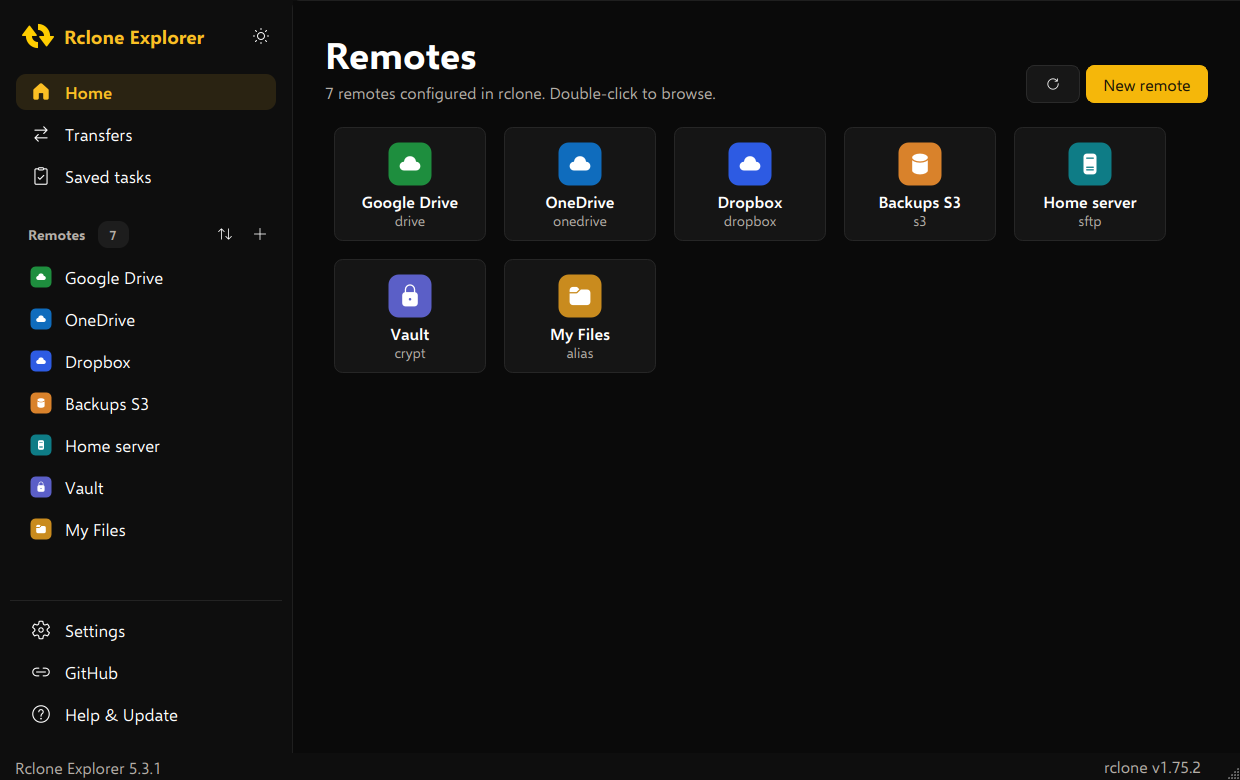
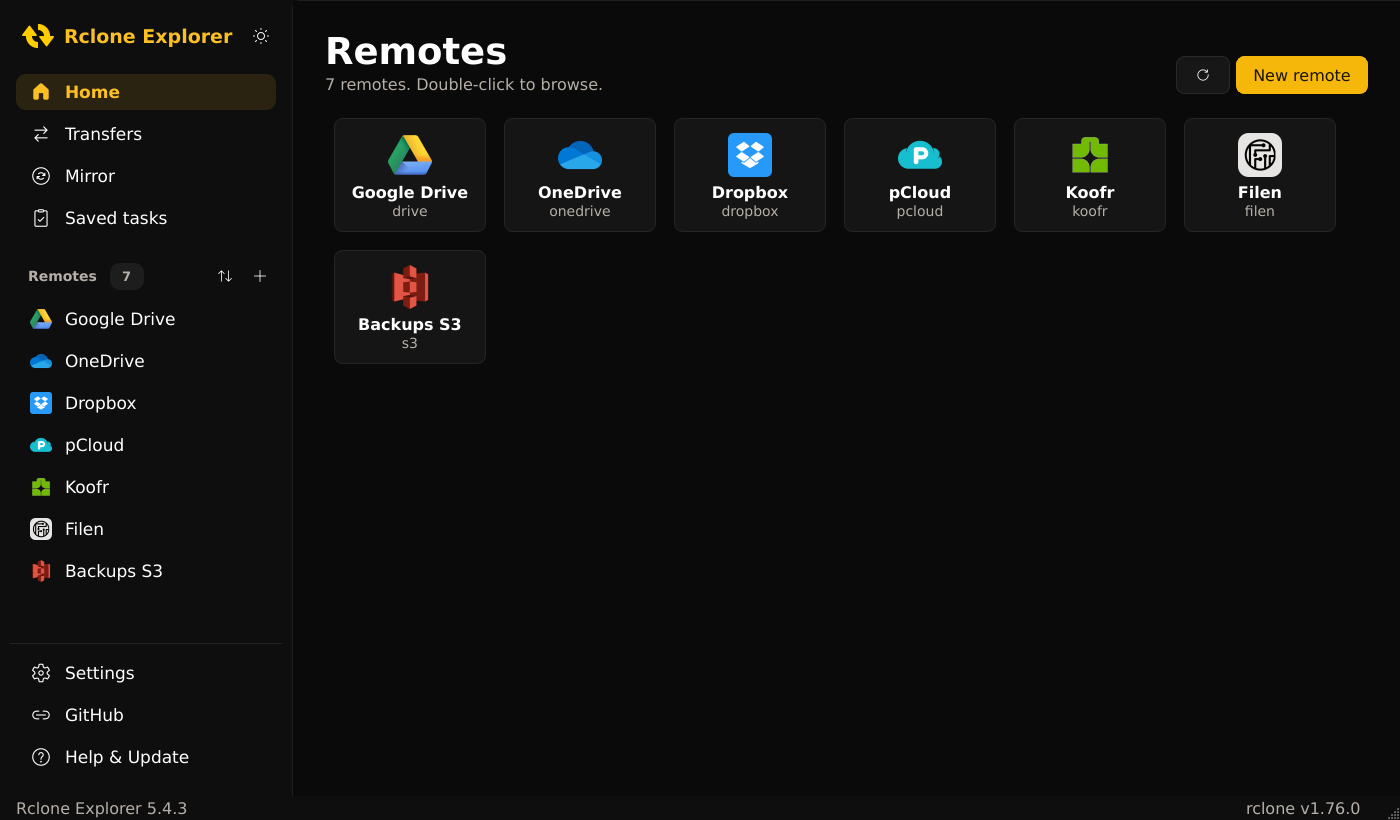
5.4.4: screenshots from a demo set-up, FAQ and SEO, delete selection and button fixes
Claude-Session: https://claude.ai/code/session_01HCoMPdrHLsSJNeapAVya7F

diff --git a/site/index.html b/site/index.html
@@ -349,14 +349,14 @@ footer .wrap { display: flex; gap: 18px; flex-wrap: wrap; justify-content: space
       <div class="section-title"><span class="pill">Screenshots</span><h2>Made for your desktop</h2>
         <p>An rclone GUI that looks at home on Windows and Linux, in dark or light.</p></div>
       <div class="gallery">
-        <figure><img src="img/home.png" alt="Home page with remote cards" loading="lazy"><figcaption>All your remotes at a glance</figcaption></figure>
-        <figure><img src="img/transfers-dark.png" alt="A running transfer with progress" loading="lazy"><figcaption>Transfers with live progress, pause and resume</figcaption></figure>
-        <figure><img src="img/details-light.png" alt="Details view in light mode" loading="lazy"><figcaption>Details view in light mode</figcaption></figure>
-        <figure><img src="img/browser.png" alt="Icons view with tabs" loading="lazy"><figcaption>Icons view with tabs</figcaption></figure>
-        <figure><img src="img/mirror-pick.png" alt="New mirror: picking a sub-folder of Google Drive, with its size and file count" loading="lazy"><figcaption>New mirror: pick any folder or sub-folder</figcaption></figure>
-        <figure><img src="img/mirror-destinations.png" alt="New mirror: choosing the folder on pCloud and Koofr" loading="lazy"><figcaption>Choose the folder on each cloud</figcaption></figure>
-        <figure><img src="img/mirror-pc.png" alt="Mirrors with a folder on this PC: photos backed up to pCloud and Google Drive, and an offline copy of a Google Drive folder" loading="lazy"><figcaption>Back up a folder on this PC, or keep an offline copy</figcaption></figure>
-        <figure><img src="img/mirror-pc-destination.png" alt="New mirror: This PC switched on next to Dropbox" loading="lazy"><figcaption>This PC as a copy, next to your clouds</figcaption></figure>
+        <figure><img src="img/home.png" alt="Rclone Explorer home page: cards for Google Drive, OneDrive, Dropbox, pCloud, Koofr, Filen and S3 remotes" width="1400" height="820" loading="lazy"><figcaption>All your remotes at a glance</figcaption></figure>
+        <figure><img src="img/transfers-dark.png" alt="A running rclone transfer with progress, speed and time left" width="1400" height="820" loading="lazy"><figcaption>Transfers with live progress, pause and resume</figcaption></figure>
+        <figure><img src="img/details-light.png" alt="Details view of a Google Drive folder in light mode, with size, date and type" width="1400" height="820" loading="lazy"><figcaption>Details view in light mode</figcaption></figure>
+        <figure><img src="img/browser.png" alt="Icons view of a Google Drive remote with tabs" width="1400" height="820" loading="lazy"><figcaption>Icons view with tabs</figcaption></figure>
+        <figure><img src="img/mirror-pick.png" alt="New mirror: picking a sub-folder of Google Drive, with its size and file count" width="720" height="680" loading="lazy"><figcaption>New mirror: pick any folder or sub-folder</figcaption></figure>
+        <figure><img src="img/mirror-destinations.png" alt="New mirror: choosing the folder on pCloud and Koofr" width="720" height="680" loading="lazy"><figcaption>Choose the folder on each cloud</figcaption></figure>
+        <figure><img src="img/mirror-pc.png" alt="Mirrors with a folder on this PC: photos backed up to pCloud and Google Drive, and an offline copy of a Google Drive folder" width="1240" height="780" loading="lazy"><figcaption>Back up a folder on this PC, or keep an offline copy</figcaption></figure>
+        <figure><img src="img/mirror-pc-destination.png" alt="New mirror: This PC switched on next to Dropbox" width="720" height="680" loading="lazy"><figcaption>This PC as a copy, next to your clouds</figcaption></figure>
       </div>
     </div>
   </section>

diff --git a/src/remote_widget.cpp b/src/remote_widget.cpp
@@ -69,7 +69,11 @@ QString root = isLocal ? "/" : QString();
 
   QObject::connect(
       ui.tree->selectionModel(), &QItemSelectionModel::selectionChanged, this,
-      [=, this](const QItemSelection &selection) {
+      [=, this]() {
+        // What is selected now, not just what this change added: removing a
+        // row (a delete, a reload) reports an empty change while other items
+        // are still selected, which left every button greyed out.
+        const QItemSelection selection = ui.tree->selectionModel()->selection();
         // only this widget's own actions, not those inside child widgets
         // (e.g. the filter box's clear button)
         for (auto child :
@@ -319,10 +323,27 @@ QString root = isLocal ? "/" : QString();
       ProgressDialog progress("Delete", "Deleting...", pathMsg, &process, this);
       if (progress.exec() == QDialog::Accepted) {
         QModelIndex above = index.parent();
-        // the row below (a sibling: the parent of a top-level row has no model)
+        // Select the next item (else the file before, else the folder), and
+        // make it the current one too: otherwise the view picks a neighbour
+        // itself once the row is gone, and if that is a folder the icon view
+        // opened it. (A folder before it would also become the address.)
         QModelIndex next = index.sibling(index.row() + 1, 0);
-        ui.tree->selectionModel()->select(next.isValid() ? next : above,
-                                          QItemSelectionModel::SelectCurrent);
+        if (!next.isValid() && index.row() > 0) {
+          next = index.sibling(index.row() - 1, 0);
+          if (model->isFolder(next)) {
+            next = QModelIndex();
+          }
+        }
+        const QModelIndex target = next.isValid() ? next : above;
+        // the icon view keeps its own current item: move it too (its
+        // selection is copied into the tree)
+        if (target.parent() == mGrid->rootIndex()) {
+          mGrid->selectionModel()->setCurrentIndex(target, QItemSelectionModel::ClearAndSelect);
+        } else {
+          mGrid->selectionModel()->clear();
+        }
+        ui.tree->selectionModel()->setCurrentIndex(
+            target, QItemSelectionModel::ClearAndSelect | QItemSelectionModel::Rows);
         model->removeRow(index.row(), above);
       }
     }
@@ -793,7 +814,9 @@ void RemoteWidget::buildFluentUi(ItemModel *model, const QString &remote,
   QObject::connect(model, &ItemModel::loadFailed, this,
                    [this](const QString &folder, const QString &error) {
                      mLoadErrorFolder = folder;
-                     mLoadError->setText(tr("Could not open %1: %2").arg(folder, error));
+                     // "Filen:" for the top folder reads oddly before a colon
+                     const QString shown = folder.endsWith(':') ? folder.chopped(1) : folder;
+                     mLoadError->setText(tr("Could not open %1: %2").arg(shown, error));
                      mLoadError->show();
                    });
   // only a new listing of that same folder clears it (another folder's

diff --git a/src/item_model.cpp b/src/item_model.cpp
@@ -520,6 +520,11 @@ void ItemModel::load(const QPersistentModelIndex &parentIndex, Item *parent) {
       for (auto it = lines.crbegin(); it != lines.crend() && error.isEmpty(); ++it) {
         error = it->trimmed().remove(stamp);
       }
+      // "Failed to lsjson with 2 errors: last error was: error in ListJSON:
+      // directory not found" says no more than "directory not found"
+      static const QRegularExpression wrapper(
+          R"(^(Failed to \w+( with \d+ errors?)?: )?(last error was: )?(error in \w+: )?)");
+      error.remove(wrapper);
       emit loadFailed(mRemote + ":" + parent->path.path(),
                       error.isEmpty() ? tr("rclone could not list it.") : error);
       return;

diff --git a/CHANGELOG.md b/CHANGELOG.md
@@ -11,6 +11,7 @@
 -   Big folders reload much faster: rows that disappeared were removed one at a time, freezing the window for tens of thousands of files
 -   Picking a remote folder and the remote suggestions in Compare, Copy to… and Bisync no longer wait for rclone with the window frozen
 -   `SECURITY.md` explains how to report a security problem privately
+-   README and website: new screenshots, a FAQ, and better search results (also for "Rclone Browser"). The screenshots are made from a demo set-up in `tools/screenshots/`, so they can be taken again for each release
 
 ### Fixed
 -   **Quitting with several jobs running stopped only every other one** properly; the rest were killed, which on Linux could leave a broken mount behind
@@ -19,6 +20,7 @@
 -   **Two copies of the AppImage could run at once**, so schedules and mirrors ran twice. On Linux the "one at a time" lock is now per user
 -   Crash: Rename, Mount, Download and the other file buttons crashed when the item they pointed at had just been deleted or reloaded
 -   Changed sizes and dates sometimes did not show after a refresh
+-   Deleting the last file of a folder in the Icons view opened the folder next to it, and after a delete the Rename, Move and Delete buttons could stay greyed out
 -   **Updates**: *Keep running* was ignored when a scheduled task started during the download; Cancel did not work while unpacking (also for rclone updates); the window froze while the portable version copied its files; the checksum is now taken from the saved file and a full disk is reported; *Update now* during an update check no longer hangs on "Preparing…"; one failure shows one message; files a new version no longer has are removed; the app cannot be closed halfway through swapping files
 -   Cancelling a transfer or stream, and the end of a transfer (the sleep lock), no longer make the window wait
 -   The Flatpak could keep the computer awake after transfers stopped and started again quickly

diff --git a/README.md b/README.md
@@ -150,6 +150,23 @@ Windows releases are not code-signed yet, so Windows may warn about `Rclone Expl
 - Committers, reviewers and release approvers: [Jackpison](https://github.com/Jackpison)
 - The download also contains files from other projects (the Qt libraries and rclone), as published by those projects.
 
+## FAQ
+
+**Is Rclone Explorer the same as Rclone Browser?**
+Yes. Rclone Explorer is the continuation of [Rclone Browser](https://github.com/mmozeiko/RcloneBrowser) (by mmozeiko, DinCahill and kapitainsky) under a new name, with a new design and new features such as mirrors, schedules and tabs. If you searched for an *Rclone Browser download* or an *Rclone Browser alternative*, this is it: settings and saved tasks of Rclone Browser carry over.
+
+**Is it free?**
+Yes, free and open source under the MIT license, with no account, no telemetry and no ads.
+
+**Do I need to install rclone separately?**
+No. The Windows and Linux downloads include rclone and keep it up to date. Your existing rclone remotes appear automatically.
+
+**Which cloud services work?**
+Every storage type rclone supports: Google Drive, OneDrive, Dropbox, pCloud, Koofr, Filen, Amazon S3, Backblaze B2, SFTP, WebDAV, encrypted remotes and more than 70 others.
+
+**Is there an rclone GUI for Linux?**
+Yes, this one: an AppImage for 64-bit Linux that runs on Ubuntu, Fedora, Debian, Mint, Arch, openSUSE and others.
+
 ## Privacy
 
 Rclone Explorer has no account, no telemetry and no analytics. It only connects to other systems in these cases:

diff --git a/tools/screenshots/README.md b/tools/screenshots/README.md
@@ -1,0 +1,24 @@
+# Screenshots
+
+The screenshots in `docs/` (used by the README and the website) are taken
+from a demo set-up: remotes named Google Drive, OneDrive, Dropbox, pCloud,
+Koofr, Filen and Backups S3, which are really folders on this computer, with
+made-up files. No cloud account is needed. The remotes show the real logos
+from `icons/remotes/`.
+
+Needs Linux with `Xvfb`, `xdotool` and ImageMagick (`import`), a built
+`build/build/rclone-explorer` and rclone on the `PATH` (or in `$RCLONE`).
+
+```bash
+tools/screenshots/demo.sh setup     # demo files and rclone.conf
+tools/screenshots/demo.sh capture   # home, browser, browser-light, details-light
+tools/screenshots/demo.sh run 2     # start the app (1 = light, 2 = dark) for other shots
+```
+
+Shots land in `$SHOTS/out` (default `/tmp/rclone-explorer-shots/out`); look
+at them, then copy the good ones to `docs/`. Everything is kept outside the
+repository and your own settings: the app runs with a separate home folder.
+
+The Transfers shot needs a running transfer: `run 2`, open Google Drive →
+Videos, select a video, **Download**, set the destination and **Run**
+(downloads are limited to 4 MB/s, so the card stays on screen).

diff --git a/ROADMAP.md b/ROADMAP.md
@@ -48,6 +48,8 @@ All done; they ship together once the version is bumped.
 - [x] **`SECURITY.md`**: how to report a security problem privately.
 - [x] **Crash fix**: Rename, Mount, Download and the other file buttons crashed when the item they pointed at had just been deleted or reloaded.
 - [x] **Faster reloads of big folders**: rows that disappeared were removed one at a time, which froze the window for tens of thousands of files.
+- [x] **Deleting the last file in Icons view opened the folder next to it**, and buttons could stay greyed out after a delete (found while testing the app).
+- [x] **README and website**: new screenshots from a demo set-up (`tools/screenshots/`), a FAQ, SEO, "formerly Rclone Browser" in more places.
 - [x] Second review of the fixes: no quitting while an update swaps files, a clear message when rclone cannot list the remotes, the "Could not open" strip clears when you move on.
 
 ## Shipped in 5.4.3
